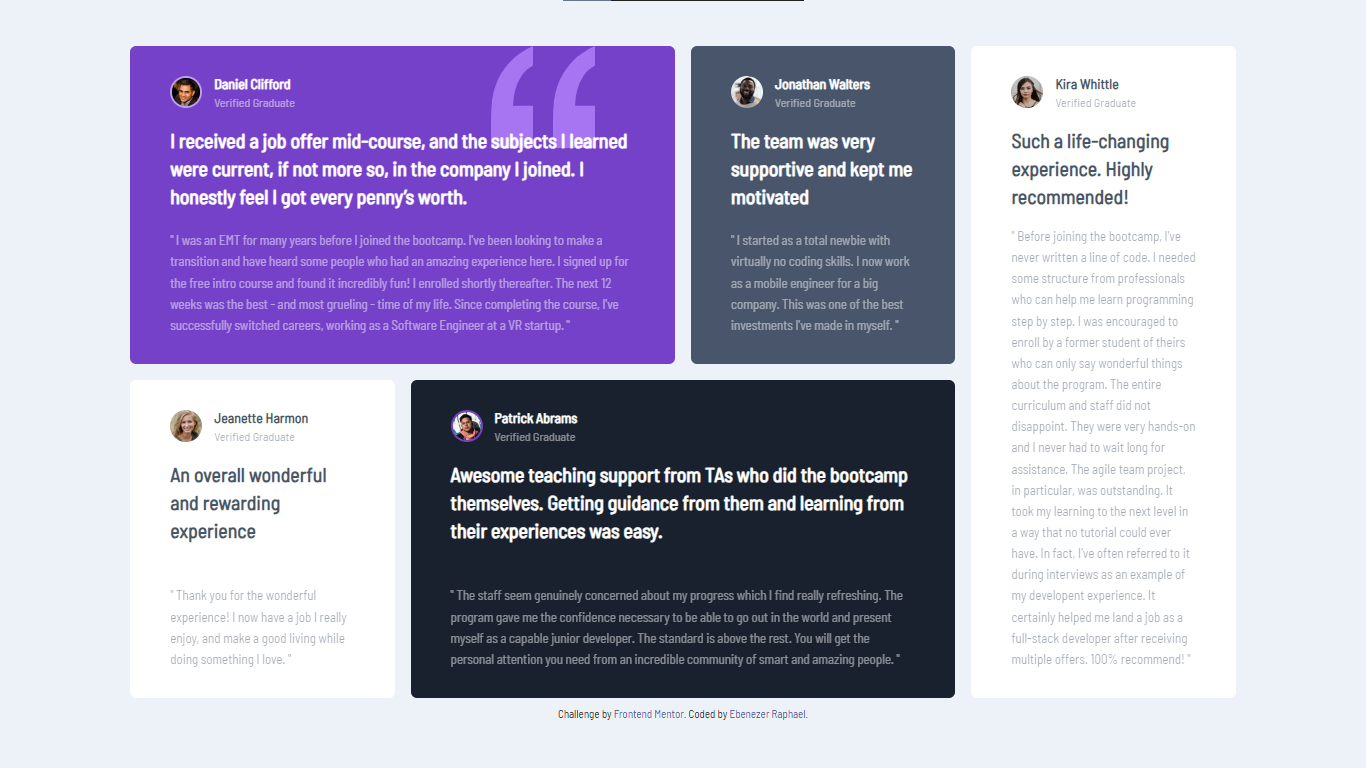
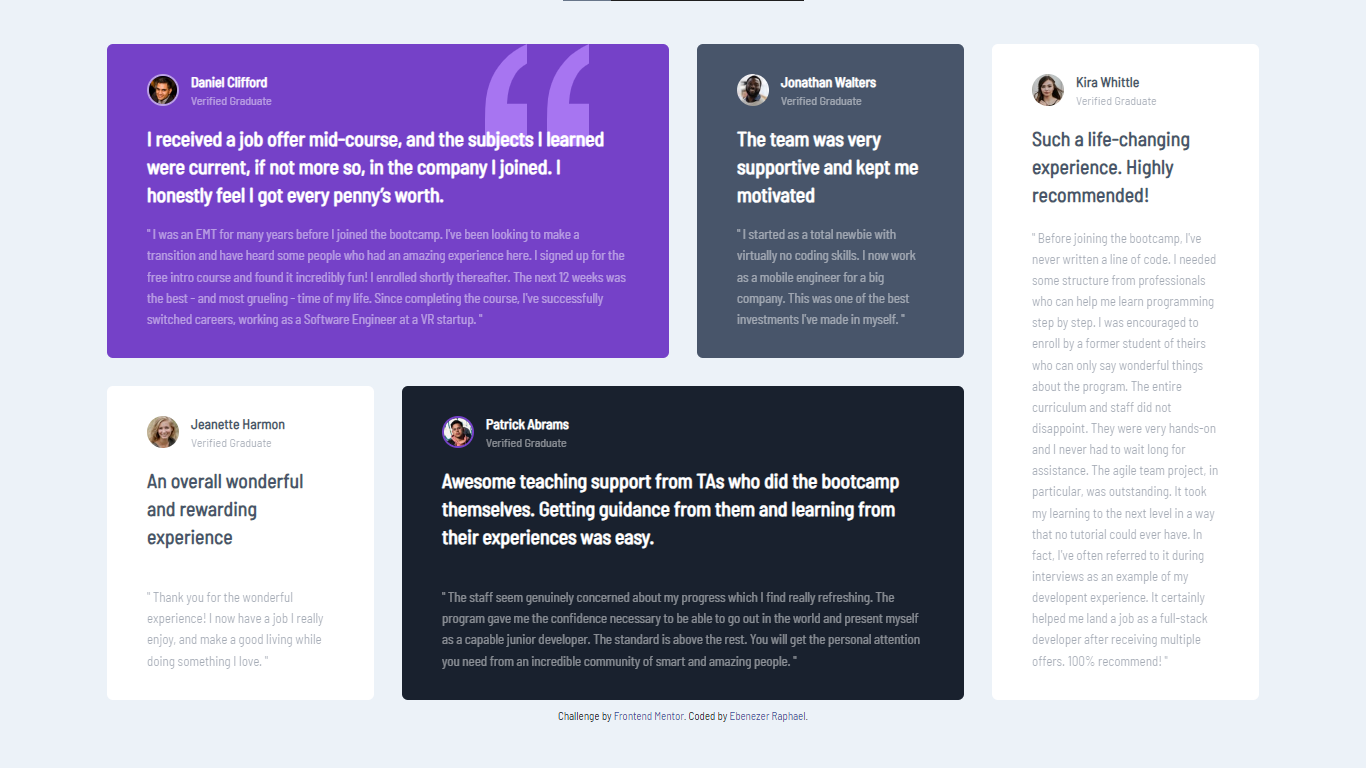
feat: Improve layout and spacing
Updated layout and spacing to enhance user experience and visual appeal.

- Adjusted the width and spacing of elements on medium screens.
- Simplified styling for easier maintainability.

diff --git a/src/output.css b/src/output.css
@@ -1,5 +1,5 @@
 /*
-! tailwindcss v3.4.6 | MIT License | https://tailwindcss.com
+! tailwindcss v3.4.7 | MIT License | https://tailwindcss.com
 */
 
 /*
@@ -562,56 +562,12 @@ video {
   position: relative;
 }
 
-.left-0 {
-  left: 0px;
+.right-10 {
+  right: 2.5rem;
 }
 
 .top-0 {
   top: 0px;
-}
-
-.left-5 {
-  left: 1.25rem;
-}
-
-.left-6 {
-  left: 1.5rem;
-}
-
-.left-1 {
-  left: 0.25rem;
-}
-
-.left-10 {
-  left: 2.5rem;
-}
-
-.right-0 {
-  right: 0px;
-}
-
-.right-1 {
-  right: 0.25rem;
-}
-
-.right-2 {
-  right: 0.5rem;
-}
-
-.right-40 {
-  right: 10rem;
-}
-
-.right-6 {
-  right: 1.5rem;
-}
-
-.right-8 {
-  right: 2rem;
-}
-
-.right-10 {
-  right: 2.5rem;
 }
 
 .z-0 {
@@ -679,8 +635,16 @@ video {
   gap: 1rem;
 }
 
-.gap-6 {
-  gap: 1.5rem;
+.gap-5 {
+  gap: 1.25rem;
+}
+
+.gap-7 {
+  gap: 1.75rem;
+}
+
+.gap-8 {
+  gap: 2rem;
 }
 
 .rounded-full {
@@ -693,10 +657,6 @@ video {
 
 .border-2 {
   border-width: 2px;
-}
-
-.border {
-  border-width: 1px;
 }
 
 .border-moderateviolet {
@@ -738,53 +698,14 @@ video {
   background-color: rgb(255 255 255 / var(--tw-bg-opacity));
 }
 
-.bg-\[url\(\'\/img\/hero-pattern\.svg\'\)\] {
-  background-image: url('/img/hero-pattern.svg');
-}
-
-.bg-\[url\(\'\/images\/bg-pattern-quotation\.svg\'\)\] {
-  background-image: url('/images/bg-pattern-quotation.svg');
-}
-
-.bg-center {
-  background-position: center;
-}
-
-.bg-no-repeat {
-  background-repeat: no-repeat;
-}
-
-.p-10 {
-  padding: 2.5rem;
-}
-
-.p-7 {
-  padding: 1.75rem;
-}
-
-.py-9 {
-  padding-top: 2.25rem;
-  padding-bottom: 2.25rem;
-}
-
-.px-7 {
-  padding-left: 1.75rem;
-  padding-right: 1.75rem;
+.px-10 {
+  padding-left: 2.5rem;
+  padding-right: 2.5rem;
 }
 
 .py-7 {
   padding-top: 1.75rem;
   padding-bottom: 1.75rem;
-}
-
-.px-9 {
-  padding-left: 2.25rem;
-  padding-right: 2.25rem;
-}
-
-.px-10 {
-  padding-left: 2.5rem;
-  padding-right: 2.5rem;
 }
 
 .font-bsc {
@@ -850,10 +771,6 @@ video {
 }
 
 @media (min-width: 768px) {
-  .md\:left-5 {
-    left: 1.25rem;
-  }
-
   .md\:right-20 {
     right: 5rem;
   }
@@ -890,40 +807,88 @@ video {
     height: 100%;
   }
 
-  .md\:w-\[68\.5rem\] {
-    width: 68.5rem;
+  .md\:w-\[69\.1rem\] {
+    width: 69.1rem;
   }
 
   .md\:w-auto {
     width: auto;
   }
 
-  .md\:w-\[69rem\] {
-    width: 69rem;
-  }
-
   .md\:w-\[rem\] {
     width: rem;
   }
 
-  .md\:w-\[70rem\] {
-    width: 70rem;
+  .md\:w-\[72rem\] {
+    width: 72rem;
   }
 
-  .md\:w-\[69\.9rem\] {
-    width: 69.9rem;
+  .md\:w-\[73rem\] {
+    width: 73rem;
   }
 
-  .md\:w-\[69\.8rem\] {
-    width: 69.8rem;
+  .md\:w-\[72\.9rem\] {
+    width: 72.9rem;
   }
 
-  .md\:w-\[69\.6rem\] {
-    width: 69.6rem;
+  .md\:w-\[72\.5rem\] {
+    width: 72.5rem;
   }
 
-  .md\:w-\[69\.1rem\] {
-    width: 69.1rem;
+  .md\:w-\[72\.rem\] {
+    width: 72.rem;
+  }
+
+  .md\:w-\[72\.1rem\] {
+    width: 72.1rem;
+  }
+
+  .md\:w-\[7rem\] {
+    width: 7rem;
+  }
+
+  .md\:w-\[71\.7rem\] {
+    width: 71.7rem;
+  }
+
+  .md\:w-\[71\.rem\] {
+    width: 71.rem;
+  }
+
+  .md\:w-\[71\.5rem\] {
+    width: 71.5rem;
+  }
+
+  .md\:w-\[71\.6rem\] {
+    width: 71.6rem;
+  }
+
+  .md\:w-\[71rem\] {
+    width: 71rem;
+  }
+
+  .md\:w-\[71\.4rem\] {
+    width: 71.4rem;
+  }
+
+  .md\:w-\[70\.8rem\] {
+    width: 70.8rem;
+  }
+
+  .md\:w-\[71\.2rem\] {
+    width: 71.2rem;
+  }
+
+  .md\:w-\[71\.1rem\] {
+    width: 71.1rem;
+  }
+
+  .md\:w-\[70\.rem\] {
+    width: 70.rem;
+  }
+
+  .md\:w-\[70\.9rem\] {
+    width: 70.9rem;
   }
 
   .md\:grid-cols-4 {

diff --git a/index.html b/index.html
@@ -28,7 +28,7 @@
 
 <body class="flex justify-center items-center min-h-screen font-bsc text-base bg-lightgrayishblue">
   <main>
-    <div class="my-1 grid md:grid-cols-4 md:w-[69.1rem] md:grid-rows-2 gap-4">
+    <div class="my-1 grid md:grid-cols-4 md:w-[72rem] md:grid-rows-2 gap-7">
 
       <div
         class="flex flex-col w-80 relative box-border rounded-md px-10 py-7 text-white bg-moderateviolet md:w-auto md:h-full md:col-span-2">
